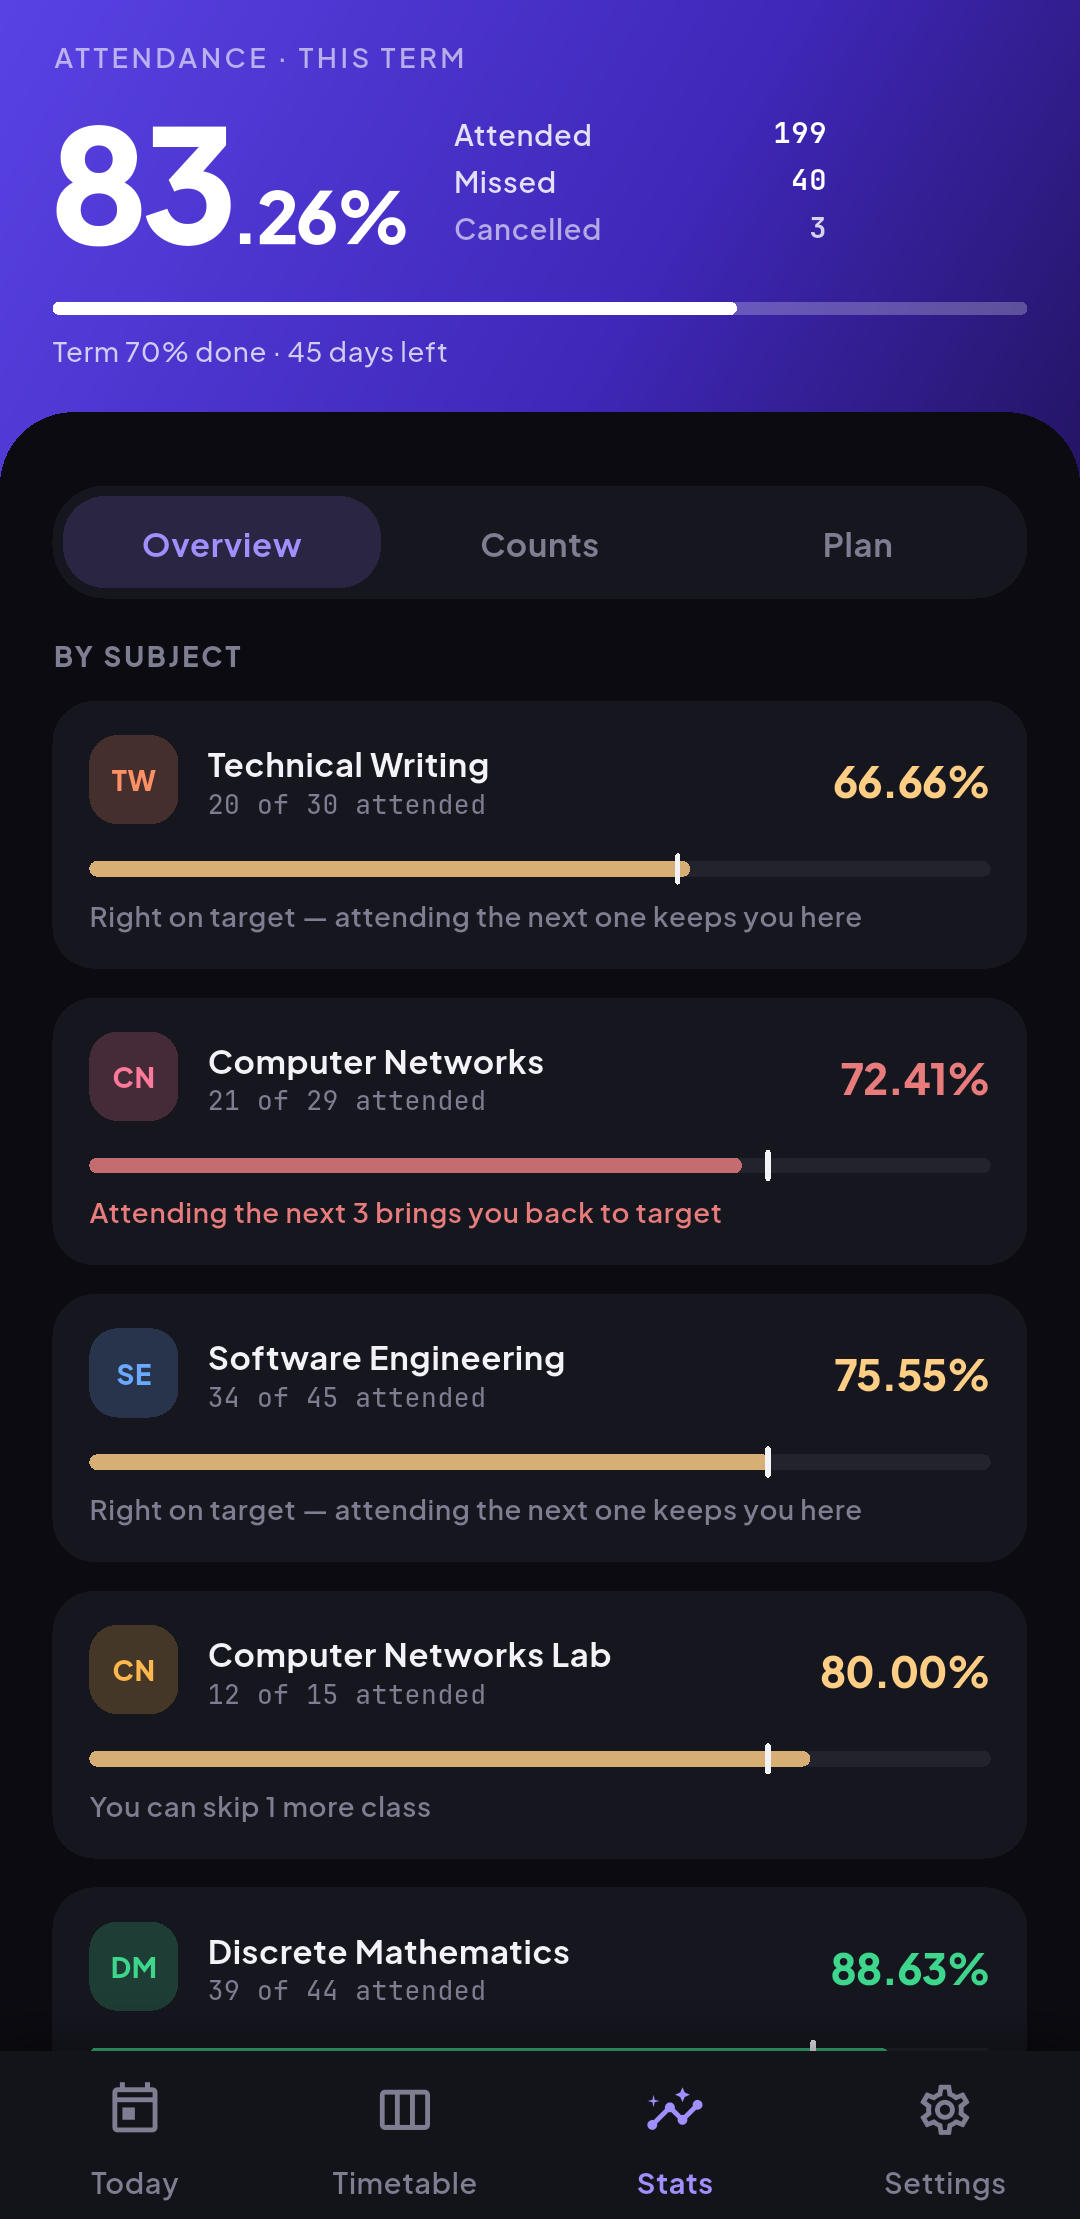
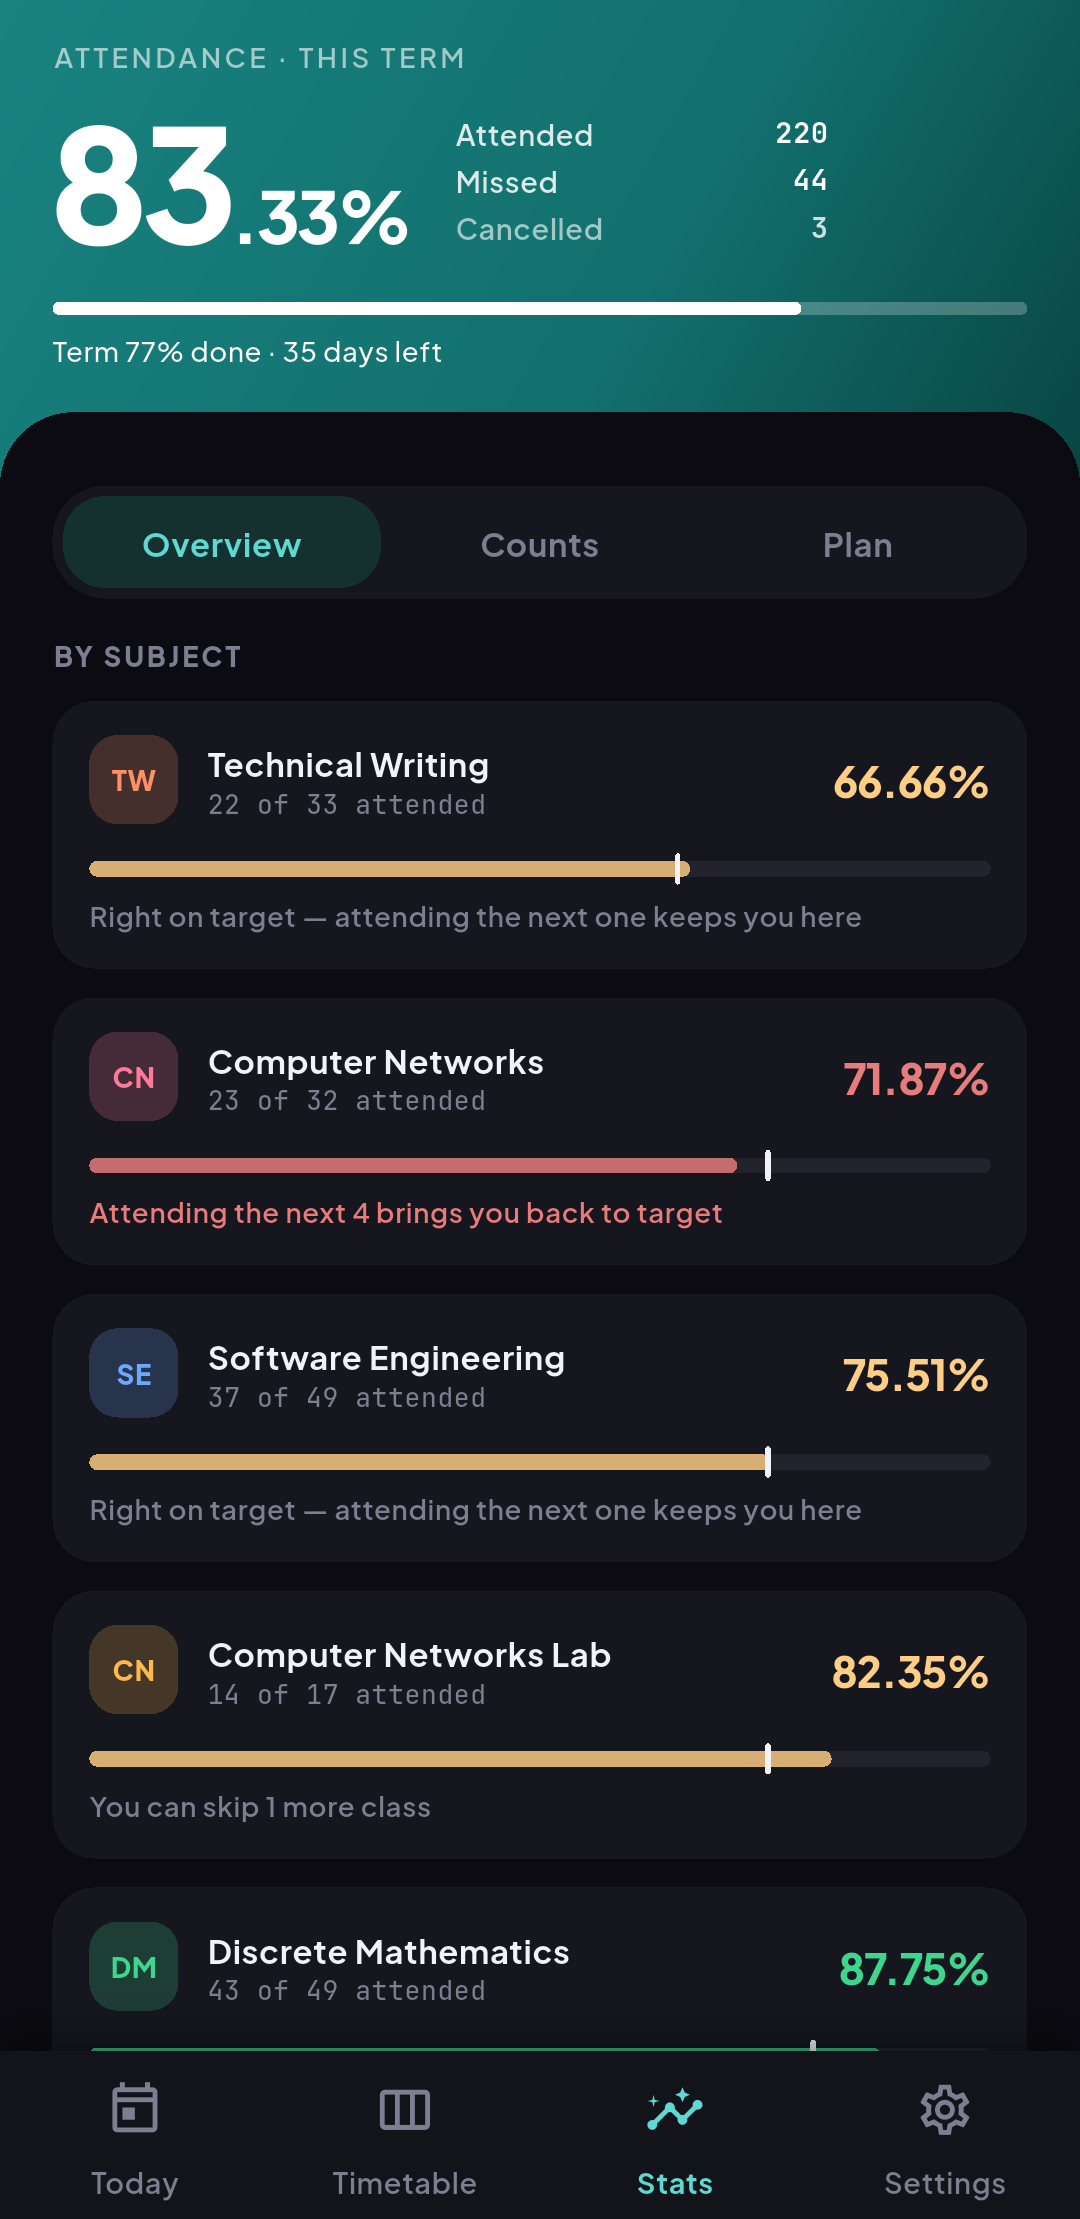
docs(readme): refresh screenshots in teal and add themes

diff --git a/README.md b/README.md
@@ -18,16 +18,20 @@ before you skip a lecture.
 </div>
 
 <p align="center">
-  <img src="docs/screenshots/today.png" alt="Today: the day's classes with their marks" width="24%">
-  <img src="docs/screenshots/stats.png" alt="Stats: each subject against its target" width="24%">
-  <img src="docs/screenshots/timetable.png" alt="Timetable: the week's classes by day" width="24%">
-  <img src="docs/screenshots/week.png" alt="Week grid: the timetable laid out in blocks" width="24%">
+  <img src="docs/screenshots/today.png" alt="Today in teal: the day's classes, three marked and one still showing its buttons" width="24%">
+  <img src="docs/screenshots/stats.png" alt="Stats in teal: each subject against its target" width="24%">
+  <img src="docs/screenshots/timetable.png" alt="Timetable in teal: the week's classes by day with their marks" width="24%">
+  <img src="docs/screenshots/week.png" alt="Week grid in teal: the timetable laid out in blocks with marks" width="24%">
 </p>
 
 <p align="center">
   <img src="docs/screenshots/marking.gif" alt="Marking today's three classes, one tap each" width="24%">
-  <img src="docs/screenshots/import.png" alt="Timetable import: the on-device read of a sheet flagged as doubtful, shown as classes before anything is saved" width="24%">
+  <img src="docs/screenshots/import.png" alt="Timetable import: a made-up printed sheet beside the 15 classes the app read from it, shown before anything is saved" width="48%">
   <img src="docs/screenshots/tablet.png" alt="Stats on a tablet" width="34%">
+</p>
+
+<p align="center">
+  <img src="docs/screenshots/themes.png" alt="Themes: the same Today screen in teal light, teal dark, magenta light and sky dark, each above its matching launcher icon" width="60%">
 </p>
 
 Your timetable and attendance live on the device, in SQLite, and everything
@@ -76,7 +80,7 @@ a yes on first start, and never for anyone under 18;
   week's grid, and see where every subject stands. They move to the new day at
   midnight with the app closed.
 
-  <img src="docs/screenshots/widgets.png" alt="The three home-screen widgets: Attendance, Today and This week" width="80%">
+  <img src="docs/screenshots/widgets.png" alt="The three home-screen widgets: Today with its mark buttons, Attendance with each subject's percentage, and This week's grid" width="80%">
 - Notifications before class, at the end of class with mark buttons, in the
   evening when something is unmarked, and when a subject nears its limit.
 - Optional account (email and password, or Google) that syncs the term to
